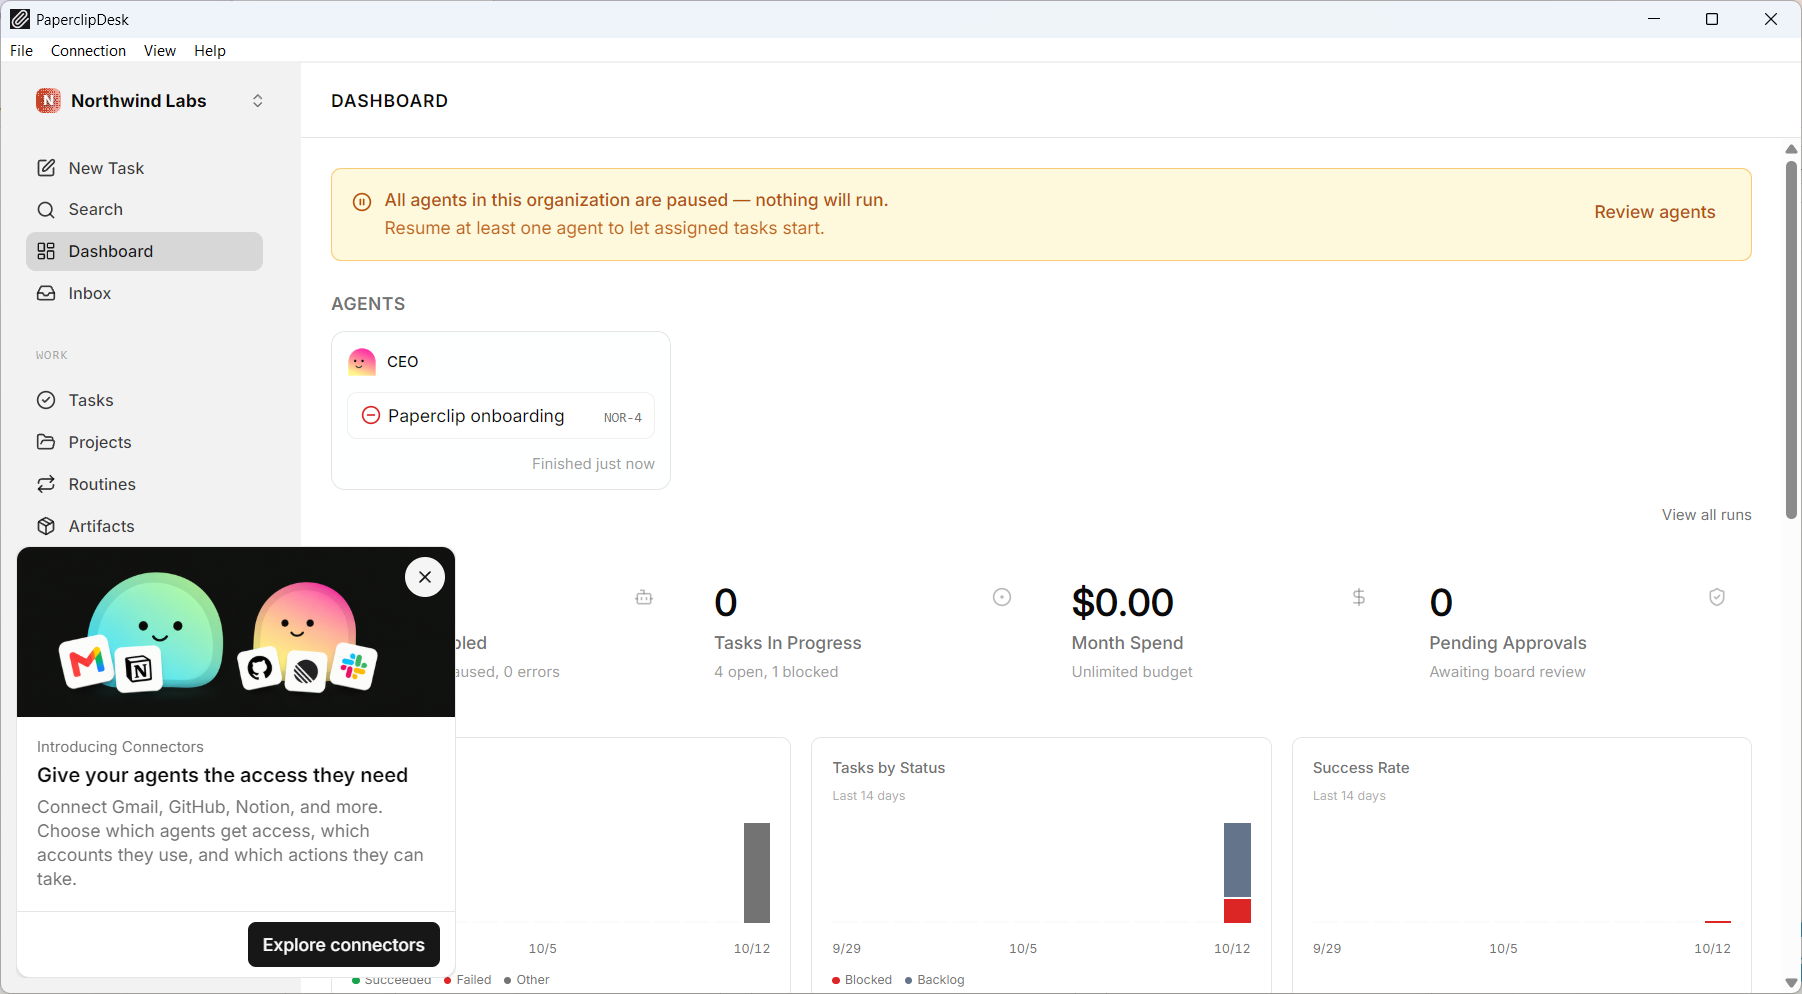
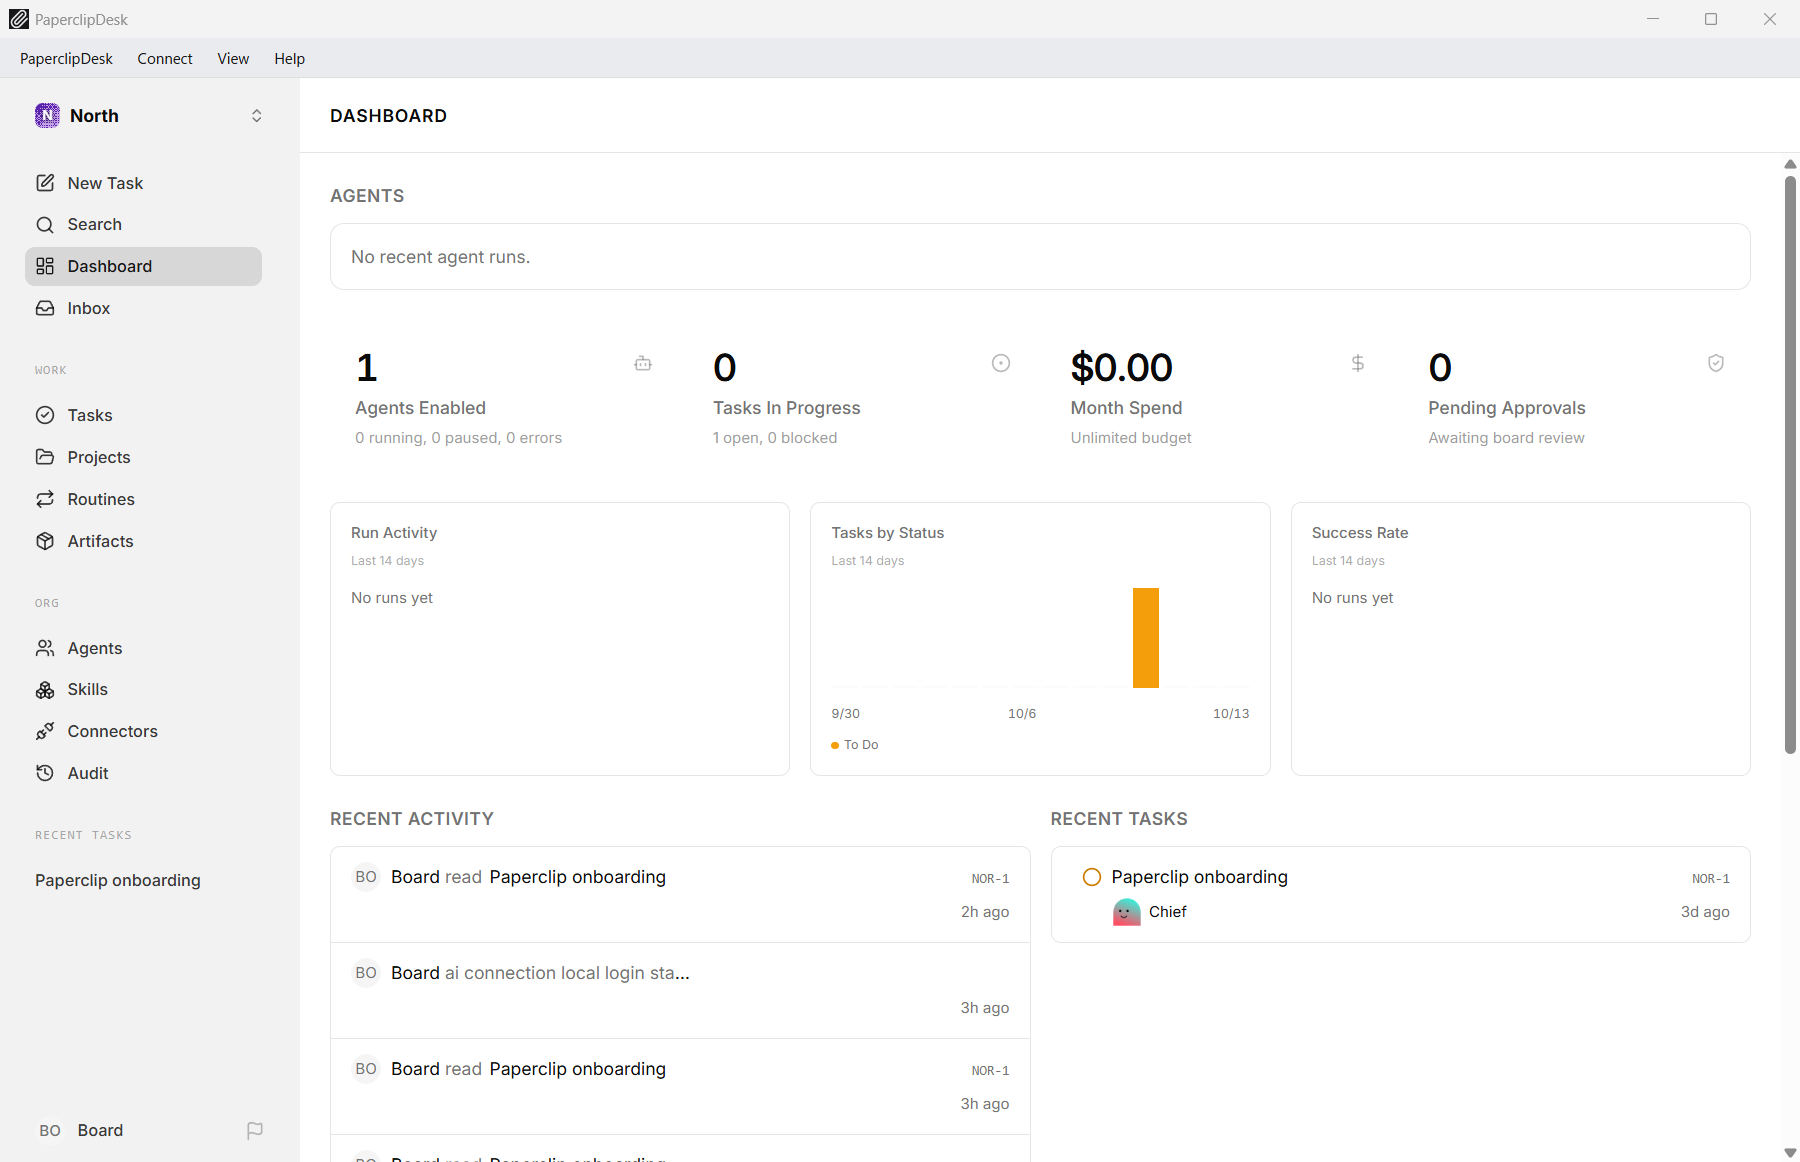
Show the connection page and the settings in the README
The screenshot at the top still had the old File and Connection menus. It
is taken again, and the connection page and the settings get a picture of
their own.

diff --git a/README.md b/README.md
@@ -23,7 +23,7 @@
 
 <p align="center"><img src="assets/paperclipdesk.png" alt="The Paperclip dashboard inside the PaperclipDesk window" width="100%"></p>
 
-<p align="center"><sub>The Paperclip dashboard in PaperclipDesk, with sample data.</sub></p>
+<p align="center"><sub>The Paperclip dashboard in PaperclipDesk. The menu bar on top belongs to the app, everything below is Paperclip itself.</sub></p>
 
 ## TL;DR
 
@@ -52,18 +52,22 @@ PaperclipDesk needs Windows 10 or 11 (64-bit). The first local start downloads t
 
 Before it connects, PaperclipDesk checks a remote: that it answers, that it really is a Paperclip, and that its sign-in is ready. A remote over plain `http://` is only opened after you confirmed that you accept an unencrypted connection.
 
-The connection page shows every connection as a card: the local server and each saved remote, with its state and a button to open it. Opening another connection keeps the ones you have open. The **Connect** menu lists this computer and your remotes with a tick at the open ones: an entry opens its connection or brings it to the front. The cross on a card closes a connection. Under **Settings → Connections** you choose which connections open when the app starts; with none chosen it shows the connection page.
+<p align="center"><img src="assets/connection-page.png" alt="The connection page with a card for the local server, one for a saved remote and one to add a remote" width="100%"></p>
+
+The connection page shows every connection as a card: the local server and each saved remote, with its state and a button to open it. Opening another connection keeps the ones you have open. The **Connect** menu lists **Local** and your remotes with a tick at the open ones: an entry opens its connection or brings it to the front. The cross on a card closes a connection. Under **Settings → Connections** you choose which connections open when the app starts; with none chosen it shows the connection page.
 
 ## Settings
 
 **PaperclipDesk → Settings** opens them in the same window. A back button returns you to Paperclip.
 
+<p align="center"><img src="assets/settings.png" alt="The Appearance page of the settings, with the design, the colour scheme and the accent colour" width="100%"></p>
+
 | Category | What you find there |
 | --- | --- |
 | **System** | The language, updates, export and import of your settings, and whether logs are cleared when the app exits |
+| **Appearance** | 31 designs, light and dark mode, and an accent color |
 | **Connections** | The connections opened at start, your saved remotes to edit, duplicate or delete, and the check of a new remote |
 | **Server** | The version of the local Paperclip server, restart and reinstall, an editor for its `config.json` and `.env`, and the reset |
-| **Appearance** | 31 designs, light and dark mode, and an accent color |
 
 ### Resetting the local server
 
@@ -83,7 +87,7 @@ Connections to remotes are not affected.
 | Menu | Entries |
 | --- | --- |
 | **PaperclipDesk** | Settings, Check for updates, Quit |
-| **Connect** | This computer, your recent and your open remotes, All connections, Edit remotes |
+| **Connect** | Local, your recent and your open remotes, All connections, Edit remotes |
 | **View** | Reload, Zoom from 50 % to 200 %, Full screen |
 | **Help** | Paperclip documentation, Project on GitHub, Report a problem, Third-party licenses, Log, Open data folder, Developer tools, the Paperclip version, and About PaperclipDesk |
 
